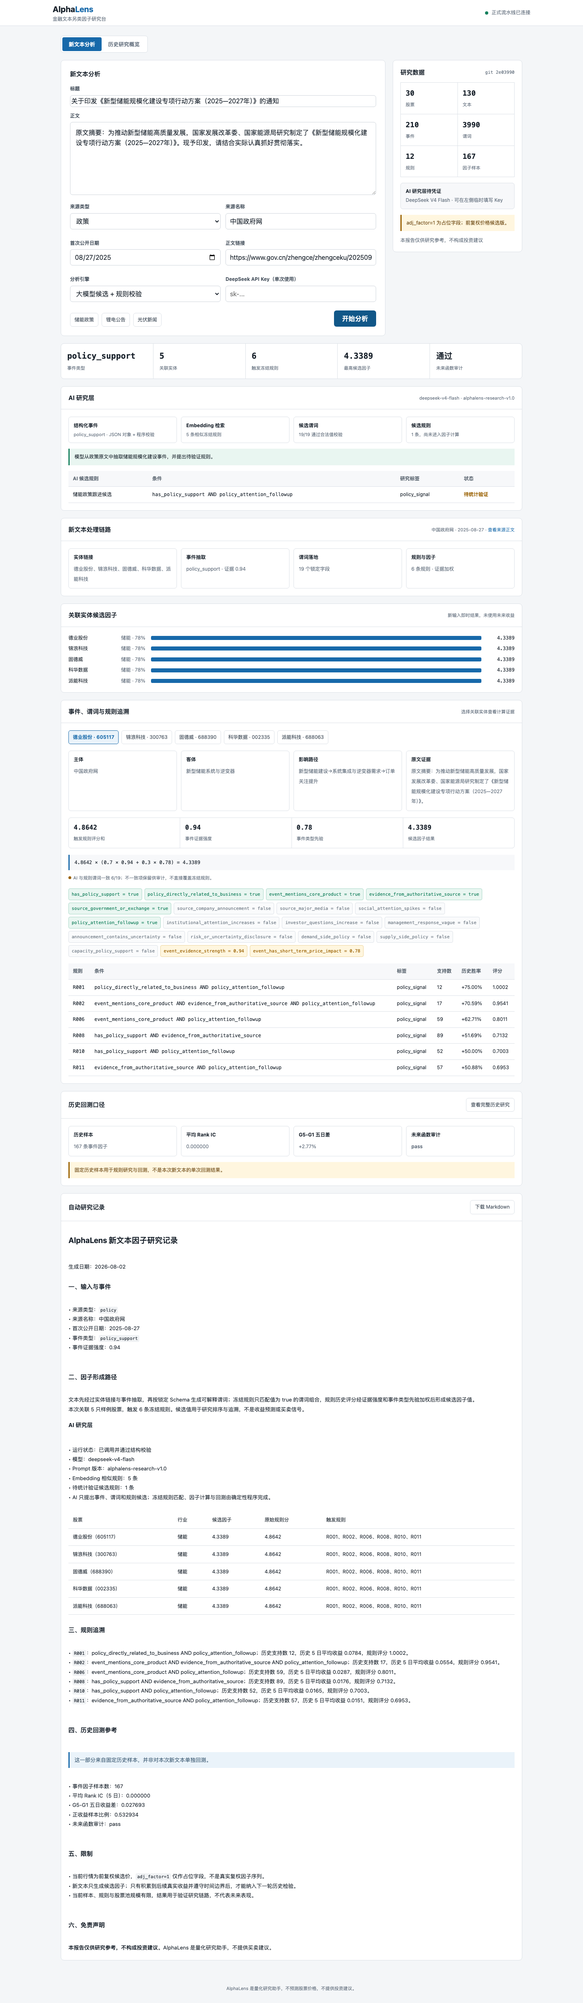
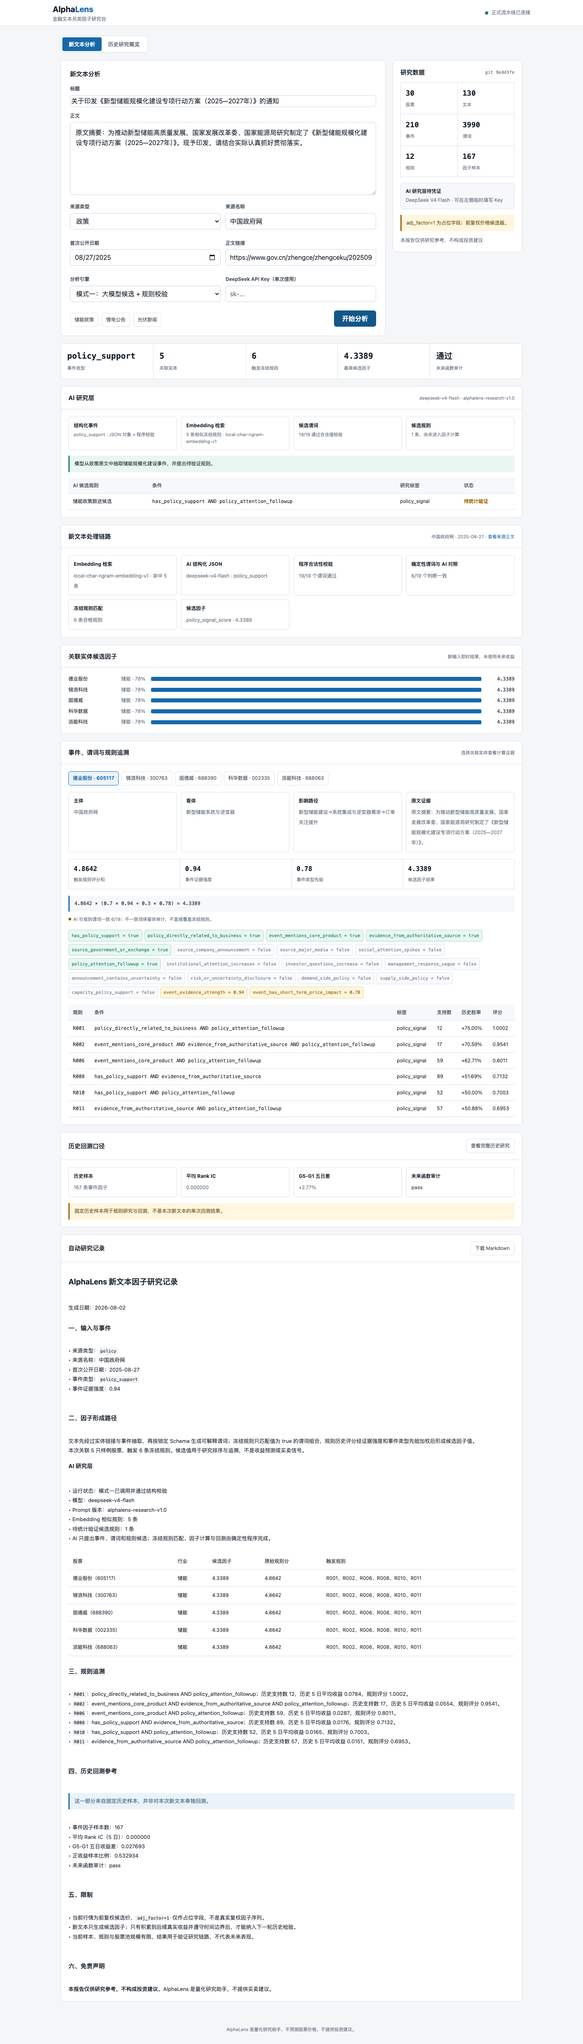
Enforce strict AI analysis mode

diff --git a/app/index.html b/app/index.html
@@ -68,7 +68,7 @@
           <div class="field"><label class="label" for="sourceName">来源名称</label><input id="sourceName" type="text" placeholder="例如：国家能源局"></div>
           <div class="field"><label class="label" for="eventDate">首次公开日期</label><input id="eventDate" type="date"></div>
           <div class="field"><label class="label" for="sourceUrl">正文链接</label><input id="sourceUrl" type="url" placeholder="https://..."></div>
-          <div class="field"><label class="label" for="analysisMode">分析引擎</label><select id="analysisMode"><option value="hybrid">大模型候选 + 规则校验</option><option value="rule">仅规则复现</option></select></div>
+          <div class="field"><label class="label" for="analysisMode">分析引擎</label><select id="analysisMode"><option value="hybrid">模式一：大模型候选 + 规则校验</option><option value="rule">模式二：仅规则复现</option></select></div>
           <div class="field"><label class="label" for="apiKey">DeepSeek API Key（单次使用）</label><input id="apiKey" type="password" autocomplete="off" spellcheck="false" maxlength="512" placeholder="sk-..."></div>
         </div>
         <div class="url-row"><div class="examples"><button class="example" data-example="0">储能政策</button><button class="example" data-example="1">锂电公告</button><button class="example" data-example="2">光伏新闻</button></div><button class="primary" id="runButton">开始分析</button></div>
@@ -141,6 +141,8 @@ async function analyze(){
   if(!payload.content)return showError('请提供正文内容');
   if(!payload.source_name)return showError('请填写可核验的来源名称');
   if(!payload.event_date)return showError('请填写首次公开日期');
+  if(payload.analysis_mode==='hybrid'&&!payload.api_key)return showError('模式一必须填写 DeepSeek API Key；未调用 AI 时不会生成结果。');
+  $('runState').querySelector('span:last-child').textContent=payload.analysis_mode==='hybrid'?'正在执行 Embedding 检索、大模型结构化抽取、规则校验与候选因子计算':'正在执行实体链接、事件抽取、谓词落地与冻结规则匹配';
   button.disabled=true;button.textContent='分析中';$('runState').classList.add('on');$('result').innerHTML='';
   try{
     const response=await fetch('/api/analyze',{method:'POST',headers:{'Content-Type':'application/json'},body:JSON.stringify(payload)});
@@ -155,10 +157,24 @@ function kpi(value,label){return `<div class="kpi"><strong>${esc(value)}</strong
 function renderAnalysis(data){
   const metrics=data.historical_backtest.metrics;const stocks=data.stock_results||[];const top=stocks[0];const maxFactor=Math.max(...stocks.map(x=>Math.abs(x.candidate_factor)),.0001);
   const sourceLink=data.source_url?`<a class="source-link" href="${esc(data.source_url)}" target="_blank" rel="noopener noreferrer">查看来源正文</a>`:'未提供链接';
+  const retrieval=data.ai_analysis?.embedding_retrieval||{};const validation=data.ai_analysis?.validation||{};const comparisons=top?.ai_predicate_comparison||[];const agreements=comparisons.filter(row=>row.agrees).length;
+  const executionTrace=data.ai_analysis?.used?[
+    ['Embedding 检索',`${retrieval.model} · 命中 ${retrieval.matches.length} 条`],
+    ['AI 结构化 JSON',`${data.ai_analysis.chat_model} · ${data.event_type}`],
+    ['程序合法性校验',`${validation.accepted_predicate_count||0}/19 个谓词通过`],
+    ['确定性谓词与 AI 对照',`${agreements}/${comparisons.length} 个判断一致`],
+    ['冻结规则匹配',`${data.triggered_rules.length} 条合格规则`],
+    ['候选因子',`${top?.factor_name||'--'} · ${fixed(top?.candidate_factor||0)}`],
+  ]:[
+    ['实体链接',stocks.map(x=>x.name).join('、')],
+    ['事件抽取',`${data.event_type} · 证据 ${fixed(data.evidence_strength,2)}`],
+    ['谓词落地',`${top?.predicates.length||0} 个锁定字段`],
+    ['规则与因子',`${data.triggered_rules.length} 条规则 · 证据加权`],
+  ];
   let html='<div class="kpis">';
   html+=kpi(data.event_type,'事件类型')+kpi(stocks.length,'关联实体')+kpi(data.triggered_rules.length,'触发冻结规则')+kpi(fixed(top?.candidate_factor||0),'最高候选因子')+kpi(metrics.future_info_audit==='pass'?'通过':'待审计','未来函数审计')+'</div>';
   html+=renderAIResearch(data.ai_analysis);
-  html+=`<section class="section"><div class="section-head"><h2>新文本处理链路</h2><span class="scope">${esc(data.source_name)} · ${esc(data.event_time)} · ${sourceLink}</span></div><div class="section-body"><div class="trace"><div class="trace-step"><b>实体链接</b><span>${stocks.map(x=>esc(x.name)).join('、')}</span></div><div class="trace-step"><b>事件抽取</b><span>${esc(data.event_type)} · 证据 ${fixed(data.evidence_strength,2)}</span></div><div class="trace-step"><b>谓词落地</b><span>${top?.predicates.length||0} 个锁定字段</span></div><div class="trace-step"><b>规则与因子</b><span>${data.triggered_rules.length} 条规则 · 证据加权</span></div></div></div></section>`;
+  html+=`<section class="section"><div class="section-head"><h2>新文本处理链路</h2><span class="scope">${esc(data.source_name)} · ${esc(data.event_time)} · ${sourceLink}</span></div><div class="section-body"><div class="trace">${executionTrace.map(([label,value])=>`<div class="trace-step"><b>${esc(label)}</b><span>${esc(value)}</span></div>`).join('')}</div></div></section>`;
   html+=`<section class="section"><div class="section-head"><h2>关联实体候选因子</h2><span class="scope">新输入即时结果，未使用未来收益</span></div><div class="section-body"><div class="bars">`;
   html+=stocks.map(stock=>`<div class="bar"><span class="bar-name" title="${esc(stock.link_evidence)}">${esc(stock.name)}</span><span class="bar-sector">${esc(stock.sector)} · ${Math.round(stock.confidence*100)}%</span><div class="bar-track"><div class="bar-fill" style="width:${Math.abs(stock.candidate_factor)/maxFactor*100}%"></div></div><span class="bar-value">${fixed(stock.candidate_factor)}</span></div>`).join('')||'<div class="empty">未形成候选因子</div>';
   html+='</div></div></section>';
@@ -184,12 +200,12 @@ function renderStockDetail(index){
 function renderAIResearch(ai){
   if(!ai)return '';
   if(!ai.used){
-    return `<section class="section"><div class="section-head"><h2>AI 研究层</h2><span class="scope">确定性回退已生效</span></div><div class="section-body"><div class="ai-summary ai-fallback"><strong>本次未调用大模型</strong><br>${esc(ai.reason||'模型不可用')}。事件、谓词、冻结规则和因子仍由可复现规则流程完成。</div></div></section>`;
+    return `<section class="section"><div class="section-head"><h2>规则研究层</h2><span class="scope">模式二：仅规则复现</span></div><div class="section-body"><div class="ai-summary ai-fallback"><strong>本次未调用大模型</strong><br>${esc(ai.reason||'用户选择规则复现模式')}。事件、谓词、冻结规则和因子由可复现规则流程完成。</div></div></section>`;
   }
   const result=ai.result||{};const retrieval=ai.embedding_retrieval||{};const candidates=result.candidate_rules||[];const validation=ai.validation||{};
   const candidateRows=candidates.map(rule=>`<tr><td>${esc(rule.name)}</td><td class="mono">${esc(rule.conditions.join(' AND '))}</td><td>${esc(rule.target_label)}</td><td class="warn">待统计验证</td></tr>`).join('')||'<tr><td colspan="4">本次未提出新候选规则</td></tr>';
   const formatNote=ai.response_format==='json_schema'?'严格 JSON Schema 返回':'JSON 对象 + 程序校验';
-  return `<section class="section"><div class="section-head"><h2>AI 研究层</h2><span class="scope">${esc(ai.chat_model)} · ${esc(ai.prompt_version)}</span></div><div class="section-body"><div class="ai-grid"><div class="ai-item"><strong>结构化事件</strong><span>${esc(result.event?.event_type||'--')} · ${formatNote}</span></div><div class="ai-item"><strong>Embedding 检索</strong><span>${retrieval.used?`${retrieval.matches.length} 条相似冻结规则`:'检索不可用'}</span></div><div class="ai-item"><strong>候选谓词</strong><span>${validation.accepted_predicate_count||0}/19 通过合法值校验</span></div><div class="ai-item"><strong>候选规则</strong><span>${candidates.length} 条，尚未进入因子计算</span></div></div><div class="ai-summary">${esc(result.summary||'模型已返回结构化研究候选。')}</div><div class="table-wrap" style="margin-top:14px"><table><thead><tr><th>AI 候选规则</th><th>条件</th><th>研究标签</th><th>状态</th></tr></thead><tbody>${candidateRows}</tbody></table></div></div></section>`;
+  return `<section class="section"><div class="section-head"><h2>AI 研究层</h2><span class="scope">${esc(ai.chat_model)} · ${esc(ai.prompt_version)}</span></div><div class="section-body"><div class="ai-grid"><div class="ai-item"><strong>结构化事件</strong><span>${esc(result.event?.event_type||'--')} · ${formatNote}</span></div><div class="ai-item"><strong>Embedding 检索</strong><span>${retrieval.used?`${retrieval.matches.length} 条相似冻结规则 · ${esc(retrieval.model)}`:'检索不可用'}</span></div><div class="ai-item"><strong>候选谓词</strong><span>${validation.accepted_predicate_count||0}/19 通过合法值校验</span></div><div class="ai-item"><strong>候选规则</strong><span>${candidates.length} 条，尚未进入因子计算</span></div></div><div class="ai-summary">${esc(result.summary||'模型已返回结构化研究候选。')}</div><div class="table-wrap" style="margin-top:14px"><table><thead><tr><th>AI 候选规则</th><th>条件</th><th>研究标签</th><th>状态</th></tr></thead><tbody>${candidateRows}</tbody></table></div></div></section>`;
 }
 
 function renderHistory(history){

diff --git a/tests/specs/ui.spec.js b/tests/specs/ui.spec.js
@@ -21,11 +21,12 @@ test('loads operational workspace and data version', async ({ page }) => {
 
 test('built-in policy example renders trace, factor and historical scope', async ({ page }) => {
   await page.getByRole('button', { name: '储能政策' }).click();
+  await page.locator('#analysisMode').selectOption('rule');
   await page.getByRole('button', { name: '开始分析' }).click();
   await expect(page.locator('#liveView .kpis')).toBeVisible();
   await expect(page.locator('#liveView .kpis')).toContainText('policy_support');
   await expect(page.locator('#liveView')).toContainText('关联实体候选因子');
-  await expect(page.locator('#liveView')).toContainText('确定性回退已生效');
+  await expect(page.locator('#liveView')).toContainText('用户选择规则复现模式');
   await expect(page.locator('body')).toContainText('事件、谓词与规则追溯');
   await expect(page.locator('body')).toContainText('has_policy_support = true');
   await expect(page.locator('.formula-equation')).toContainText('0.7 ×');
@@ -33,6 +34,13 @@ test('built-in policy example renders trace, factor and historical scope', async
   await expect(page.locator('.entity-button')).toHaveCount(5);
   await expect(page.getByRole('link', { name: '查看来源正文' })).toHaveAttribute('href', /^https:\/\//);
   await expect(page.locator('.report')).toContainText('不构成投资建议');
+});
+
+test('hybrid mode requires a DeepSeek key instead of falling back', async ({ page }) => {
+  await page.getByRole('button', { name: '储能政策' }).click();
+  await page.getByRole('button', { name: '开始分析' }).click();
+  await expect(page.locator('.error')).toContainText('模式一必须填写 DeepSeek API Key');
+  await expect(page.locator('#liveView .kpis')).toHaveCount(0);
 });
 
 test('historical workspace shows audited backtest, snapshot and rule library', async ({ page }) => {
@@ -49,6 +57,7 @@ test('historical workspace shows audited backtest, snapshot and rule library', a
 
 test('announcement example exposes uncertainty predicate', async ({ page }) => {
   await page.getByRole('button', { name: '锂电公告' }).click();
+  await page.locator('#analysisMode').selectOption('rule');
   await page.getByRole('button', { name: '开始分析' }).click();
   await expect(page.locator('#liveView .kpis')).toContainText('capacity_expansion');
   await expect(page.locator('body')).toContainText('announcement_contains_uncertainty = true');

diff --git a/tests/ai-specs/ai-ui.spec.js b/tests/ai-specs/ai-ui.spec.js
@@ -13,10 +13,17 @@ test('configured AI layer renders structured output, retrieval and candidates', 
   await expect(live).toContainText('deepseek-v4-flash · alphalens-research-v1.0');
   await expect(live).toContainText('JSON 对象 + 程序校验');
   await expect(live).toContainText('5 条相似冻结规则');
+  await expect(live).toContainText('local-char-ngram-embedding-v1');
+  await expect(live).not.toContainText('确定性回退');
   await expect(live).toContainText('19/19 通过合法值校验');
   await expect(live).toContainText('储能政策跟进候选');
   await expect(live).toContainText('待统计验证');
   await expect(live).toContainText('AI 与规则谓词一致');
+  await expect(live).toContainText('AI 结构化 JSON');
+  await expect(live).toContainText('程序合法性校验');
+  await expect(live).toContainText('确定性谓词与 AI 对照');
+  await expect(live).toContainText('冻结规则匹配');
+  await expect(live).toContainText('候选因子');
   await expect(live).toContainText('不构成投资建议');
   await expect(page.locator('#apiKey')).toHaveValue('');
   expect(responseBody.ai_analysis.credential_source).toBe('request');
@@ -24,4 +31,15 @@ test('configured AI layer renders structured output, retrieval and candidates', 
   expect(response.headers()['cache-control']).toContain('no-store');
   expect(await page.evaluate(() => window.localStorage.length)).toBe(0);
   expect(await page.evaluate(() => document.documentElement.scrollWidth)).toBe(1440);
+});
+
+test('invalid DeepSeek credentials fail without deterministic fallback', async ({ page }) => {
+  await page.goto('/');
+  await page.getByRole('button', { name: '储能政策' }).click();
+  await page.locator('#apiKey').fill('invalid-test-key');
+  await page.getByRole('button', { name: '开始分析' }).click();
+  await expect(page.locator('.error')).toContainText('模式一需要大模型成功参与');
+  await expect(page.locator('#apiKey')).toHaveValue('');
+  await expect(page.locator('#liveView .kpis')).toHaveCount(0);
+  await expect(page.locator('#liveView')).not.toContainText('确定性回退');
 });

diff --git a/tests/specs/api.spec.js b/tests/specs/api.spec.js
@@ -19,7 +19,7 @@ const EXAMPLES = {
 };
 
 async function post(request, data) {
-  const response = await request.post('/api/analyze', { data });
+  const response = await request.post('/api/analyze', { data: { analysis_mode: 'rule', ...data } });
   return { response, body: await response.json() };
 }
 
@@ -67,8 +67,8 @@ test('policy text reuses official predicates and frozen rules', async ({ request
   expect(body.stock_results[0].predicates).toHaveLength(19);
   expect(body.triggered_rules.length).toBeGreaterThan(0);
   expect(body.stock_results[0].candidate_factor).toBeGreaterThan(0);
-  expect(body.analysis_mode).toBe('deterministic_rule_fallback');
-  expect(body.ai_analysis.requested).toBe(true);
+  expect(body.analysis_mode).toBe('deterministic_rule_only');
+  expect(body.ai_analysis.requested).toBe(false);
   expect(body.ai_analysis.used).toBe(false);
   const formula = body.stock_results[0].factor_formula;
   expect(formula.result).toBeCloseTo(
@@ -81,6 +81,14 @@ test('policy text reuses official predicates and frozen rules', async ({ request
   expect(body.historical_backtest.scope).toBe('historical_reference_only');
   expect(body.report).toContain('并非对本次新文本单独回测');
   expect(body.report).toContain('本报告仅供研究参考，不构成投资建议');
+});
+
+test('hybrid mode rejects the request when AI is unavailable', async ({ request }) => {
+  const { response, body } = await post(request, { ...EXAMPLES.policy, analysis_mode: 'hybrid' });
+  expect(response.status()).toBe(503);
+  expect(body.error).toContain('模式一需要大模型成功参与');
+  expect(body.ai_analysis.used).toBe(false);
+  expect(body.stock_results).toBeUndefined();
 });
 
 test('announcement grounds uncertainty predicate', async ({ request }) => {

diff --git a/tests/playwright.ai.config.js b/tests/playwright.ai.config.js
@@ -27,7 +27,7 @@ module.exports = defineConfig({
       timeout: 15000,
     },
     {
-      command: `ALPHALENS_DEEPSEEK_BASE_URL=http://127.0.0.1:8799/v1 ALPHALENS_DEEPSEEK_EMBEDDING_MODEL=fake-embedding ALPHALENS_DEMO_PORT=8702 "${python}" app/server.py`,
+      command: `ALPHALENS_DEEPSEEK_BASE_URL=http://127.0.0.1:8799/v1 ALPHALENS_DEMO_PORT=8702 "${python}" app/server.py`,
       cwd: root,
       url: 'http://localhost:8702',
       reuseExistingServer: false,

diff --git a/scripts/prepare_b_handoff_materials.py b/scripts/prepare_b_handoff_materials.py
@@ -656,7 +656,7 @@ def prepare_c_runbook() -> None:
             "- Demo 至少检查两个工作区、来源元数据、因子公式、事件/谓词追溯、冻结规则、历史因子截面和报告下载。",
             "- DeepSeek 联调从页面密码框临时填写 Key，确认调用模型为 `deepseek-v4-flash`；不得把 Key 写入代码、`.env`、截图、终端命令或联调记录。",
             "- 打开浏览器开发者工具检查 `/api/analyze`：请求后 Key 输入框自动清空，响应体不含 Key，响应头包含 `Cache-Control: no-store`。",
-            "- 当前 DeepSeek 路径不配置 Embedding 模型时，‘语义检索不可用’是已知状态，不应误判为 Chat 调用失败。",
+            "- 模式一必须显示 `local-char-ngram-embedding-v1` 和相似冻结规则命中数；Embedding、DeepSeek 或结构校验任一步失败都应返回错误且不生成候选因子。",
             "- AI 候选规则必须保持待统计验证状态，不得直接写入 rules.csv 或参与因子评分。",
             "- 新文本接口不得临时生成未来收益；历史指标只能读取正式 CSV。",
             "",
@@ -938,7 +938,7 @@ def prepare_demo_script() -> None:
         "| 回到新文本分析并点击储能政策 | 填入核验库中的真实正文详情页 | 来源、日期和 URL 均可追溯 |",
         "| 填写 DeepSeek API Key | 在密码框中临时填写，选择‘大模型候选 + 规则校验’ | Key 只用于本次请求，系统不保存，结束后自动清空 |",
         "| 检查 AI 研究层状态 | 展示 `deepseek-v4-flash` 和 Prompt 版本 | 大模型提出候选，程序负责约束与统计验证 |",
-        "| 点击开始分析 | 运行结构化抽取和规则校验 | 模型输出必须通过股票池、Schema 和原文证据校验；当前 DeepSeek 路径不启用 Embedding |",
+        "| 点击开始分析 | 运行本地 Embedding、结构化抽取和规则校验 | 页面显示 `local-char-ngram-embedding-v1`、检索命中数和 DeepSeek 模型；任一步失败直接报错 |",
         "| 查看 AI 候选规则 | 展示自动归纳及待验证状态 | 候选规则不会直接进入因子，必须经过历史统计和人工审核 |",
         "| 切换关联实体 | 展示每只股票的事件、谓词和触发规则 | 同一文本可以关联多个实体，每条路径独立追溯 |",
         "| 查看因子公式 | 展示规则评分和、证据强度与事件先验 | 公式可现场复算，候选值不是买卖信号 |",
@@ -951,7 +951,7 @@ def prepare_demo_script() -> None:
         ".venv/bin/python app/server.py",
         "```",
         "",
-        "投屏前先准备好 Key。不要把 Key 写进命令、`.env`、PPT 或演示录屏；若需要现场填写，密码框会用掩码显示。没有 Key 或网络异常时，页面自动回退到确定性规则流程。",
+        "投屏前先准备好 Key。不要把 Key 写进命令、`.env`、PPT 或演示录屏；若需要现场填写，密码框会用掩码显示。没有 Key 或网络异常时，模式一直接报错；需要离线复现必须主动选择模式二，不能把模式二结果说成 AI 结果。",
         "",
         "## 收尾 20 秒",
         "",

diff --git a/src/ai/research_layer.py b/src/ai/research_layer.py
@@ -2,7 +2,9 @@
 
 from __future__ import annotations
 
+import hashlib
 import math
+import re
 from typing import Any
 
 from src.ai.gateway import AIServiceError, AISettings, OpenAICompatibleGateway
@@ -96,7 +98,11 @@ class AIResearchLayer:
             for rule in qualified
         ]
         try:
-            vectors, metadata = self.gateway.embeddings([query, *rule_texts])
+            if self.settings.embedding_model:
+                vectors, metadata = self.gateway.embeddings([query, *rule_texts])
+            else:
+                vectors = [local_text_embedding(text) for text in [query, *rule_texts]]
+                metadata = {"model": "local-char-ngram-embedding-v1"}
             query_vector = vectors[0]
             ranked = sorted(
                 (
@@ -119,6 +125,23 @@ class AIResearchLayer:
             }
         except AIServiceError as exc:
             return {"used": False, "matches": [], "reason": str(exc)}
+
+
+def local_text_embedding(text: str, dimensions: int = 512) -> list[float]:
+    """Build a deterministic lexical embedding for offline rule retrieval."""
+    normalized = re.sub(r"\s+", "", text.lower())
+    features: list[str] = []
+    for size in (2, 3, 4):
+        features.extend(normalized[index : index + size] for index in range(max(len(normalized) - size + 1, 0)))
+    features.extend(re.findall(r"[a-z0-9_]+", text.lower()))
+    vector = [0.0] * dimensions
+    for feature in features:
+        digest = hashlib.blake2b(feature.encode("utf-8"), digest_size=8).digest()
+        bucket = int.from_bytes(digest[:4], "big") % dimensions
+        sign = 1.0 if digest[4] & 1 else -1.0
+        vector[bucket] += sign
+    norm = math.sqrt(sum(value * value for value in vector))
+    return [value / norm for value in vector] if norm else vector
 
 
 def cosine_similarity(left: list[float], right: list[float]) -> float:

diff --git a/src/pipeline/live_analysis.py b/src/pipeline/live_analysis.py
@@ -176,6 +176,19 @@ def analyze_new_document(
     }
     if use_ai and ai_layer is not None:
         ai_analysis = ai_layer.analyze(doc, stock_pool, rules)
+        if not ai_analysis.get("used"):
+            return {
+                "error": f"模式一需要大模型成功参与：{ai_analysis.get('reason') or 'AI 未返回有效结果'}",
+                "error_code": "ai_required",
+                "ai_analysis": ai_analysis,
+            }
+        retrieval = ai_analysis.get("embedding_retrieval", {})
+        if not retrieval.get("used"):
+            return {
+                "error": f"模式一需要先完成 Embedding 检索：{retrieval.get('reason') or '向量检索未执行'}",
+                "error_code": "embedding_required",
+                "ai_analysis": ai_analysis,
+            }
     elif ai_layer is not None:
         ai_analysis = ai_layer.skipped("用户选择规则复现模式")
     else:
@@ -323,6 +336,6 @@ def analyze_new_document(
         "events": event_trace,
         "stock_results": stock_results,
         "triggered_rules": list(all_rules.values()),
-        "analysis_mode": "hybrid_ai_rule_validation" if ai_analysis.get("used") else "deterministic_rule_fallback",
+        "analysis_mode": "hybrid_ai_rule_validation" if ai_analysis.get("used") else "deterministic_rule_only",
         "ai_analysis": ai_analysis,
     }

diff --git a/tests/test_ai_research_layer.py b/tests/test_ai_research_layer.py
@@ -8,7 +8,7 @@ import unittest
 from http.server import BaseHTTPRequestHandler, ThreadingHTTPServer
 
 from src.ai.gateway import AISettings, OpenAICompatibleGateway
-from src.ai.research_layer import AIResearchLayer
+from src.ai.research_layer import AIResearchLayer, cosine_similarity, local_text_embedding
 
 
 MODEL_OUTPUT = {
@@ -151,6 +151,15 @@ class AIResearchLayerTest(unittest.TestCase):
         self.assertFalse(result["used"])
         self.assertTrue(result["fallback"])
         self.assertIn("模型未配置", result["reason"])
+
+    def test_local_embedding_is_deterministic_and_retrieves_related_text(self) -> None:
+        query = local_text_embedding("新型储能政策推动项目建设")
+        related = local_text_embedding("政策支持新型储能项目建设")
+        unrelated = local_text_embedding("公司公告披露董事会人员变更")
+
+        self.assertEqual(query, local_text_embedding("新型储能政策推动项目建设"))
+        self.assertGreater(cosine_similarity(query, related), cosine_similarity(query, unrelated))
+        self.assertAlmostEqual(sum(value * value for value in query), 1.0)
 
 
 if __name__ == "__main__":

diff --git a/app/server.py b/app/server.py
@@ -204,7 +204,7 @@ def generate_report(analysis: dict[str, Any], history: dict[str, Any]) -> str:
         "",
         "### AI 研究层",
         "",
-        f"- 运行状态：{'已调用并通过结构校验' if ai.get('used') else '未调用或已安全回退'}",
+        f"- 运行状态：{'模式一已调用并通过结构校验' if ai.get('used') else '模式二仅规则复现，未调用 AI'}",
         f"- 模型：{ai.get('chat_model', '--')}",
         f"- Prompt 版本：{ai.get('prompt_version', '--')}",
         f"- Embedding 相似规则：{len(ai.get('embedding_retrieval', {}).get('matches', []))} 条",
@@ -334,7 +334,8 @@ def analyze():
     except (KeyError, ValueError) as exc:
         return jsonify({"error": str(exc)}), 400
     if "error" in result:
-        return jsonify(result), 422
+        status_code = 503 if result.get("error_code") in {"ai_required", "embedding_required"} else 422
+        return jsonify(result), status_code
     result["ai_analysis"]["credential_source"] = "request" if api_key else "environment_or_fallback"
     history = historical_backtest()
     result["historical_backtest"] = history

diff --git a/tests/fake_ai_server.py b/tests/fake_ai_server.py
@@ -23,17 +23,8 @@ class Handler(BaseHTTPRequestHandler):
         length = int(self.headers.get("Content-Length", "0"))
         payload = json.loads(self.rfile.read(length).decode("utf-8"))
         if self.path.endswith("/embeddings"):
-            if payload.get("model") != "fake-embedding":
-                self.send_error(400)
-                return
-            body = {
-                "model": "fake-embedding",
-                "data": [
-                    {"index": index, "embedding": [1.0, 0.1 + index / 100]}
-                    for index, _ in enumerate(payload["input"])
-                ],
-                "usage": {"total_tokens": 42},
-            }
+            self.send_error(501, "unexpected embedding request")
+            return
         elif self.path.endswith("/chat/completions"):
             if payload.get("model") != "deepseek-v4-flash":
                 self.send_error(400)

diff --git a/scripts/update_b_task_docs.py b/scripts/update_b_task_docs.py
@@ -123,7 +123,7 @@ def write_progress_doc() -> None:
         f"- 交付包自检报告：已生成 `查看材料/交付包自检报告.md`",
         "- Flask Demo：已具备 `app/server.py`，可用 `.venv/bin/python app/server.py` 启动",
         "- Demo 双工作区：新文本页已支持真实详情页案例、实体切换与因子公式；历史页已展示正式回测、因子截面和冻结规则库",
-        "- AI 研究层：已接入页面单次 DeepSeek API Key、`deepseek-v4-flash` 结构化 Chat、候选谓词/规则校验和离线规则回退",
+        "- AI 研究层：模式一已强制执行本地 Embedding、`deepseek-v4-flash` 结构化 Chat 和程序校验，AI 失败直接报错；模式二独立提供规则复现",
         "",
         "## 数据来源分布",
         "",
